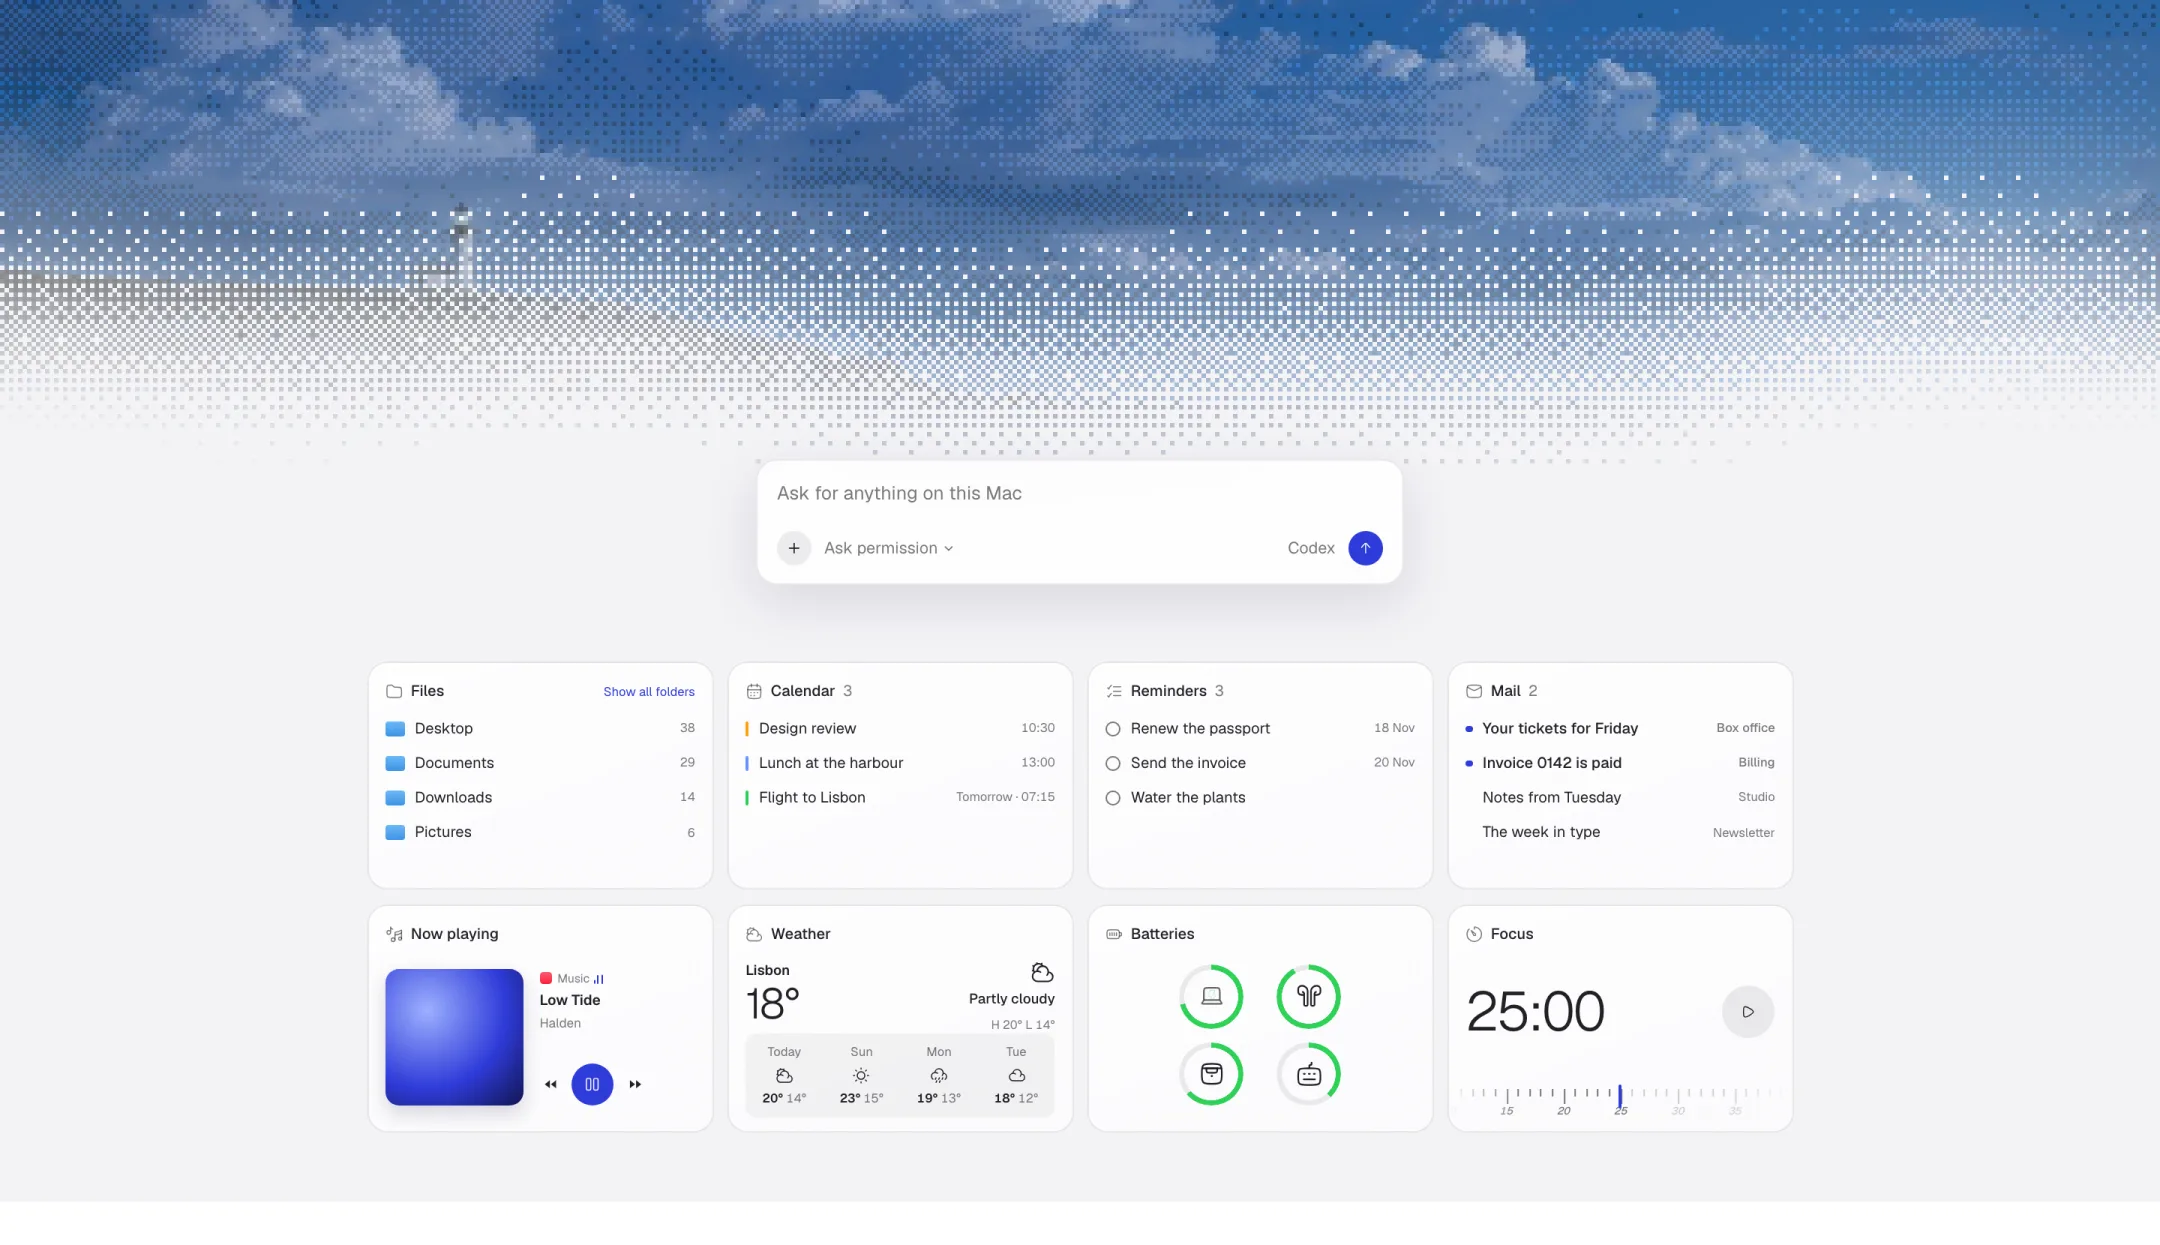
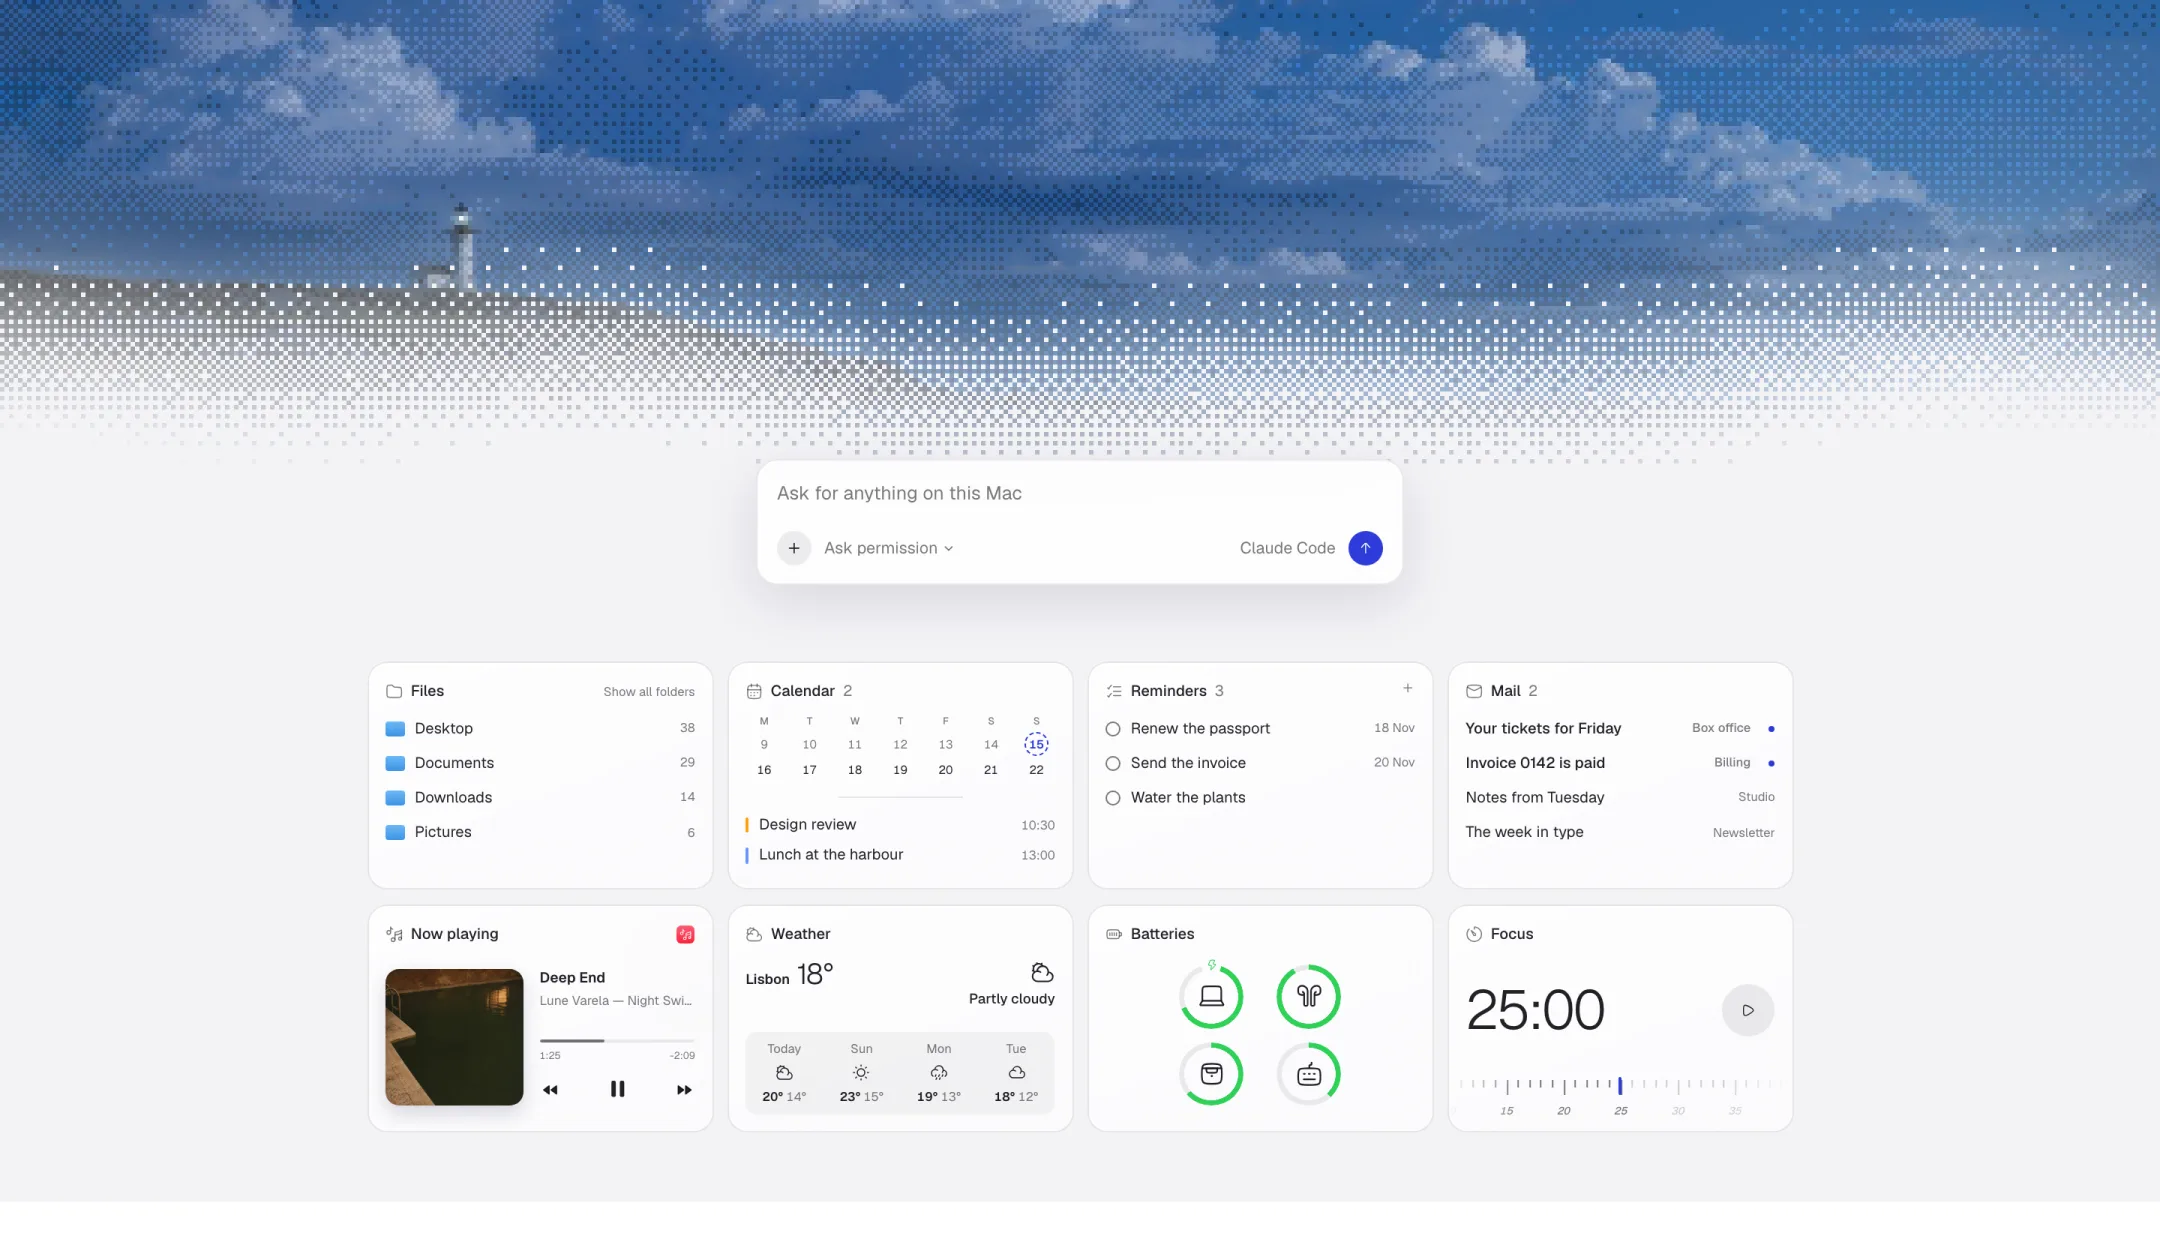
oree.space: the hero's picture thins lower, so the lighthouse shows; fresh README picture

diff --git a/site/app.js b/site/app.js
@@ -394,9 +394,11 @@ function print(canvas, cell = 3) {
   else drawScene(context, columns, rows, scenes[look === "photo" ? "fjord" : look]);
 
   // The plate shows the whole picture, so it keeps more before it thins.
+  // The hero keeps a little more, so its picture reads before it thins.
   const whole = "resolve" in canvas.dataset;
-  const thinFrom = whole ? 0.74 : 0.5;
-  const shadeFrom = whole ? 0.58 : 0.34;
+  const hero = "heroPicture" in canvas.dataset;
+  const thinFrom = whole ? 0.74 : hero ? 0.62 : 0.5;
+  const shadeFrom = whole ? 0.58 : hero ? 0.46 : 0.34;
   const image = context.getImageData(0, 0, columns, rows);
   const pixels = image.data;
   for (let y = 0; y < rows; y++) {
